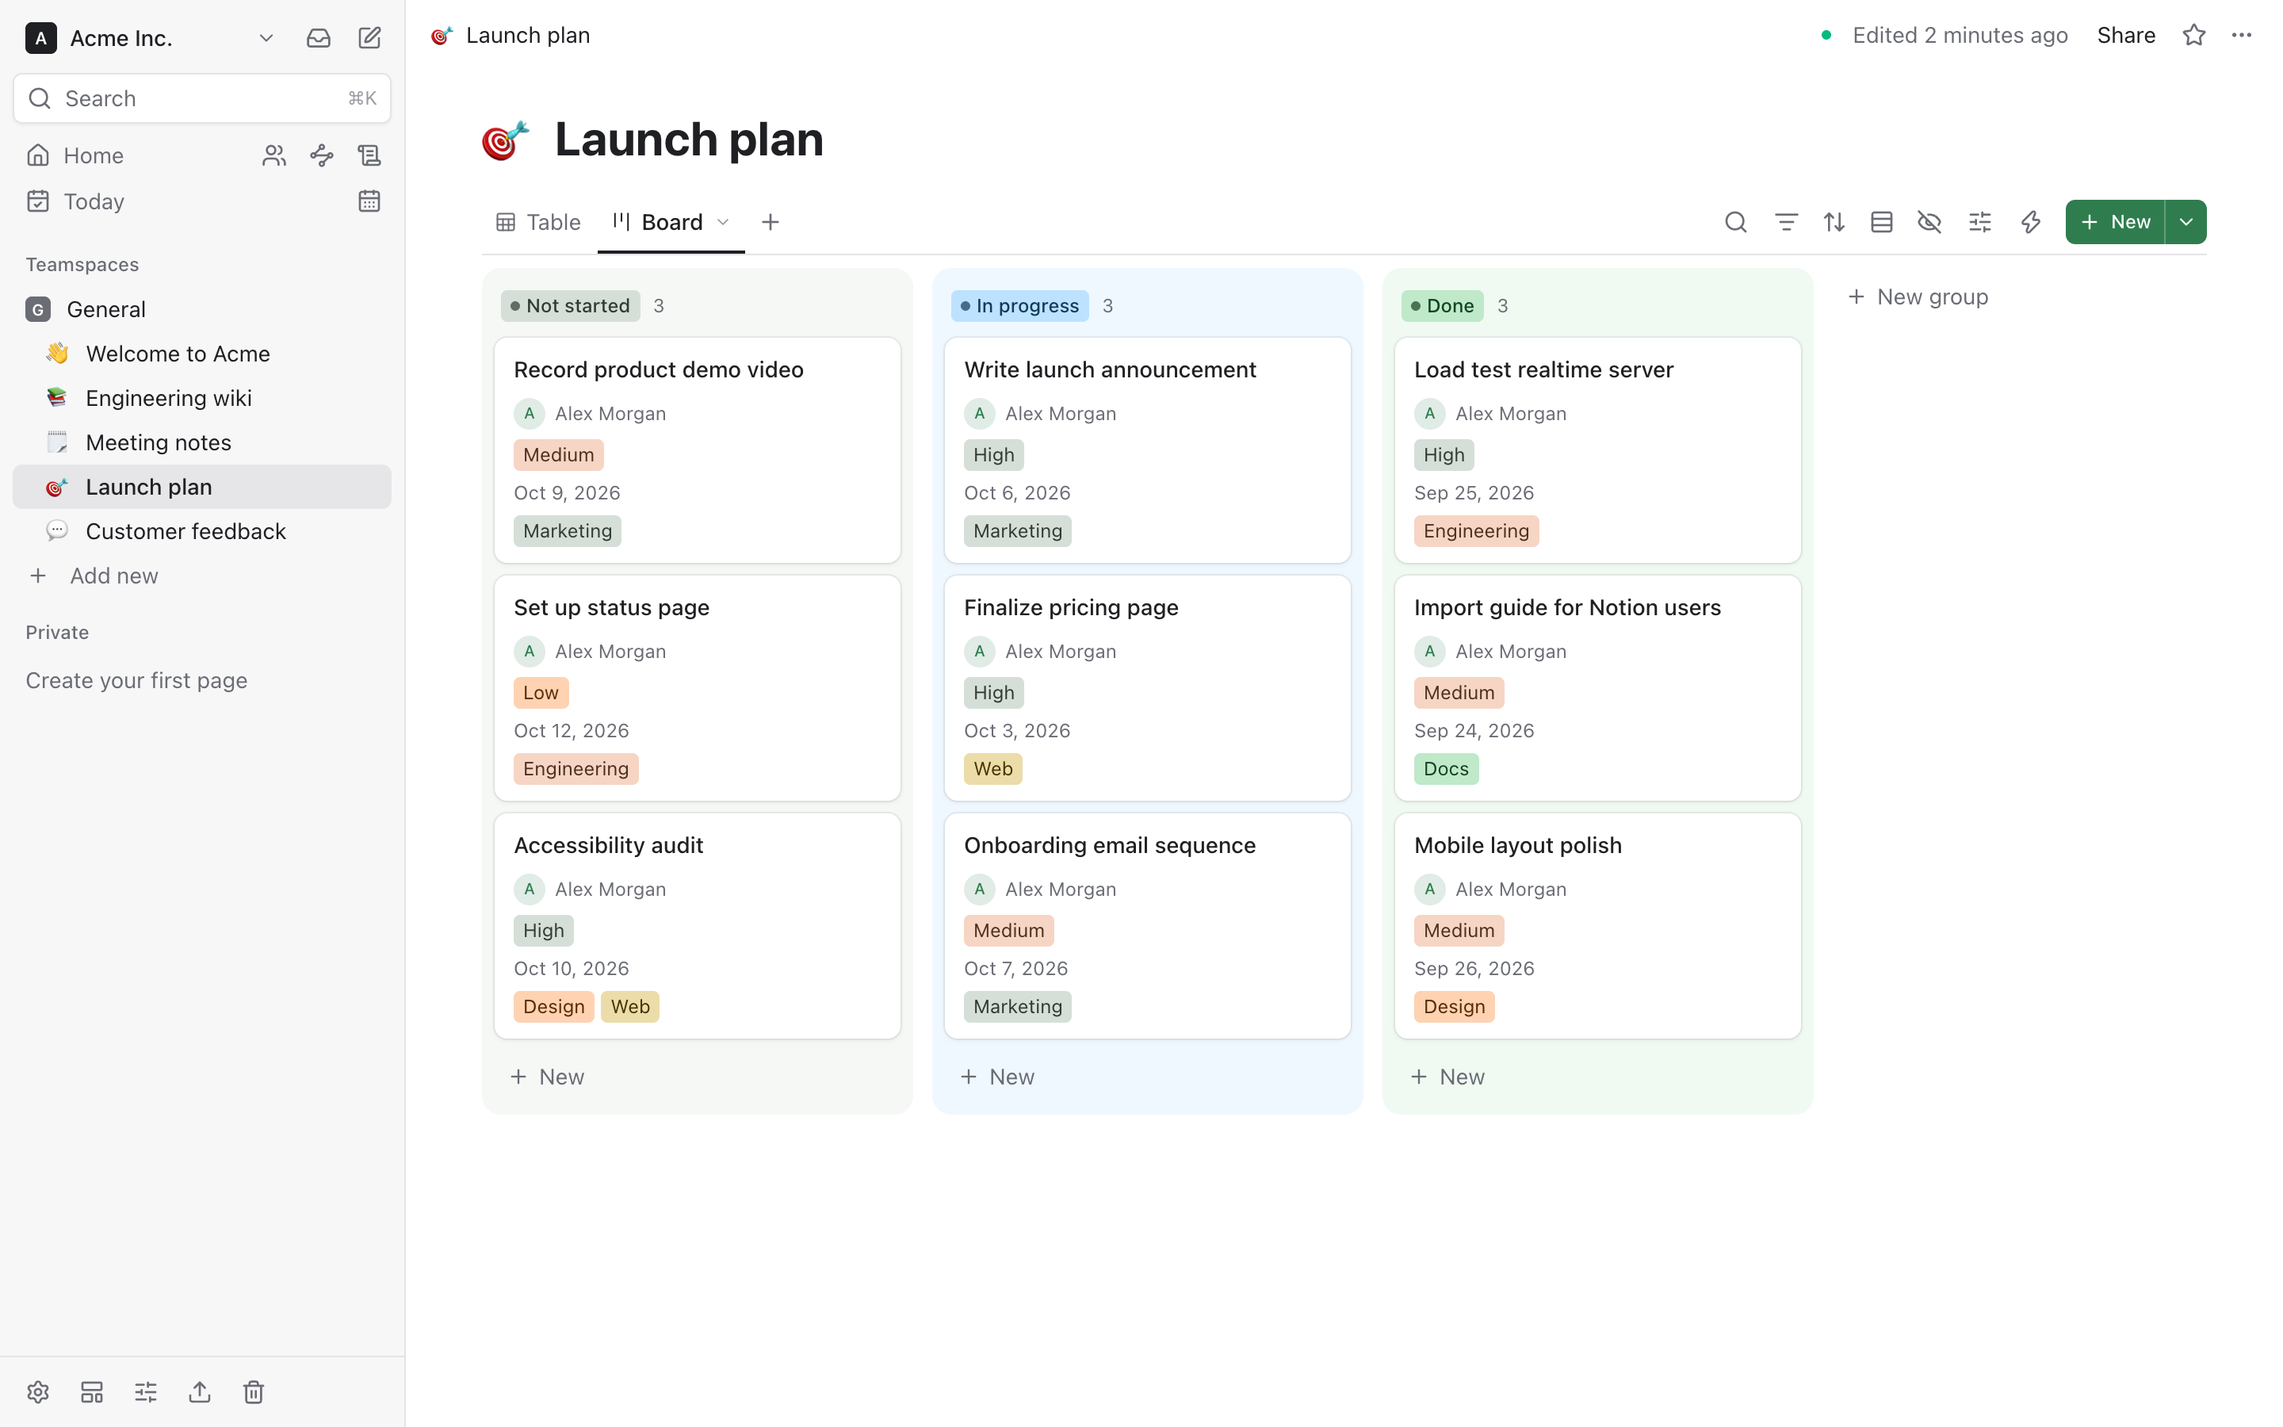
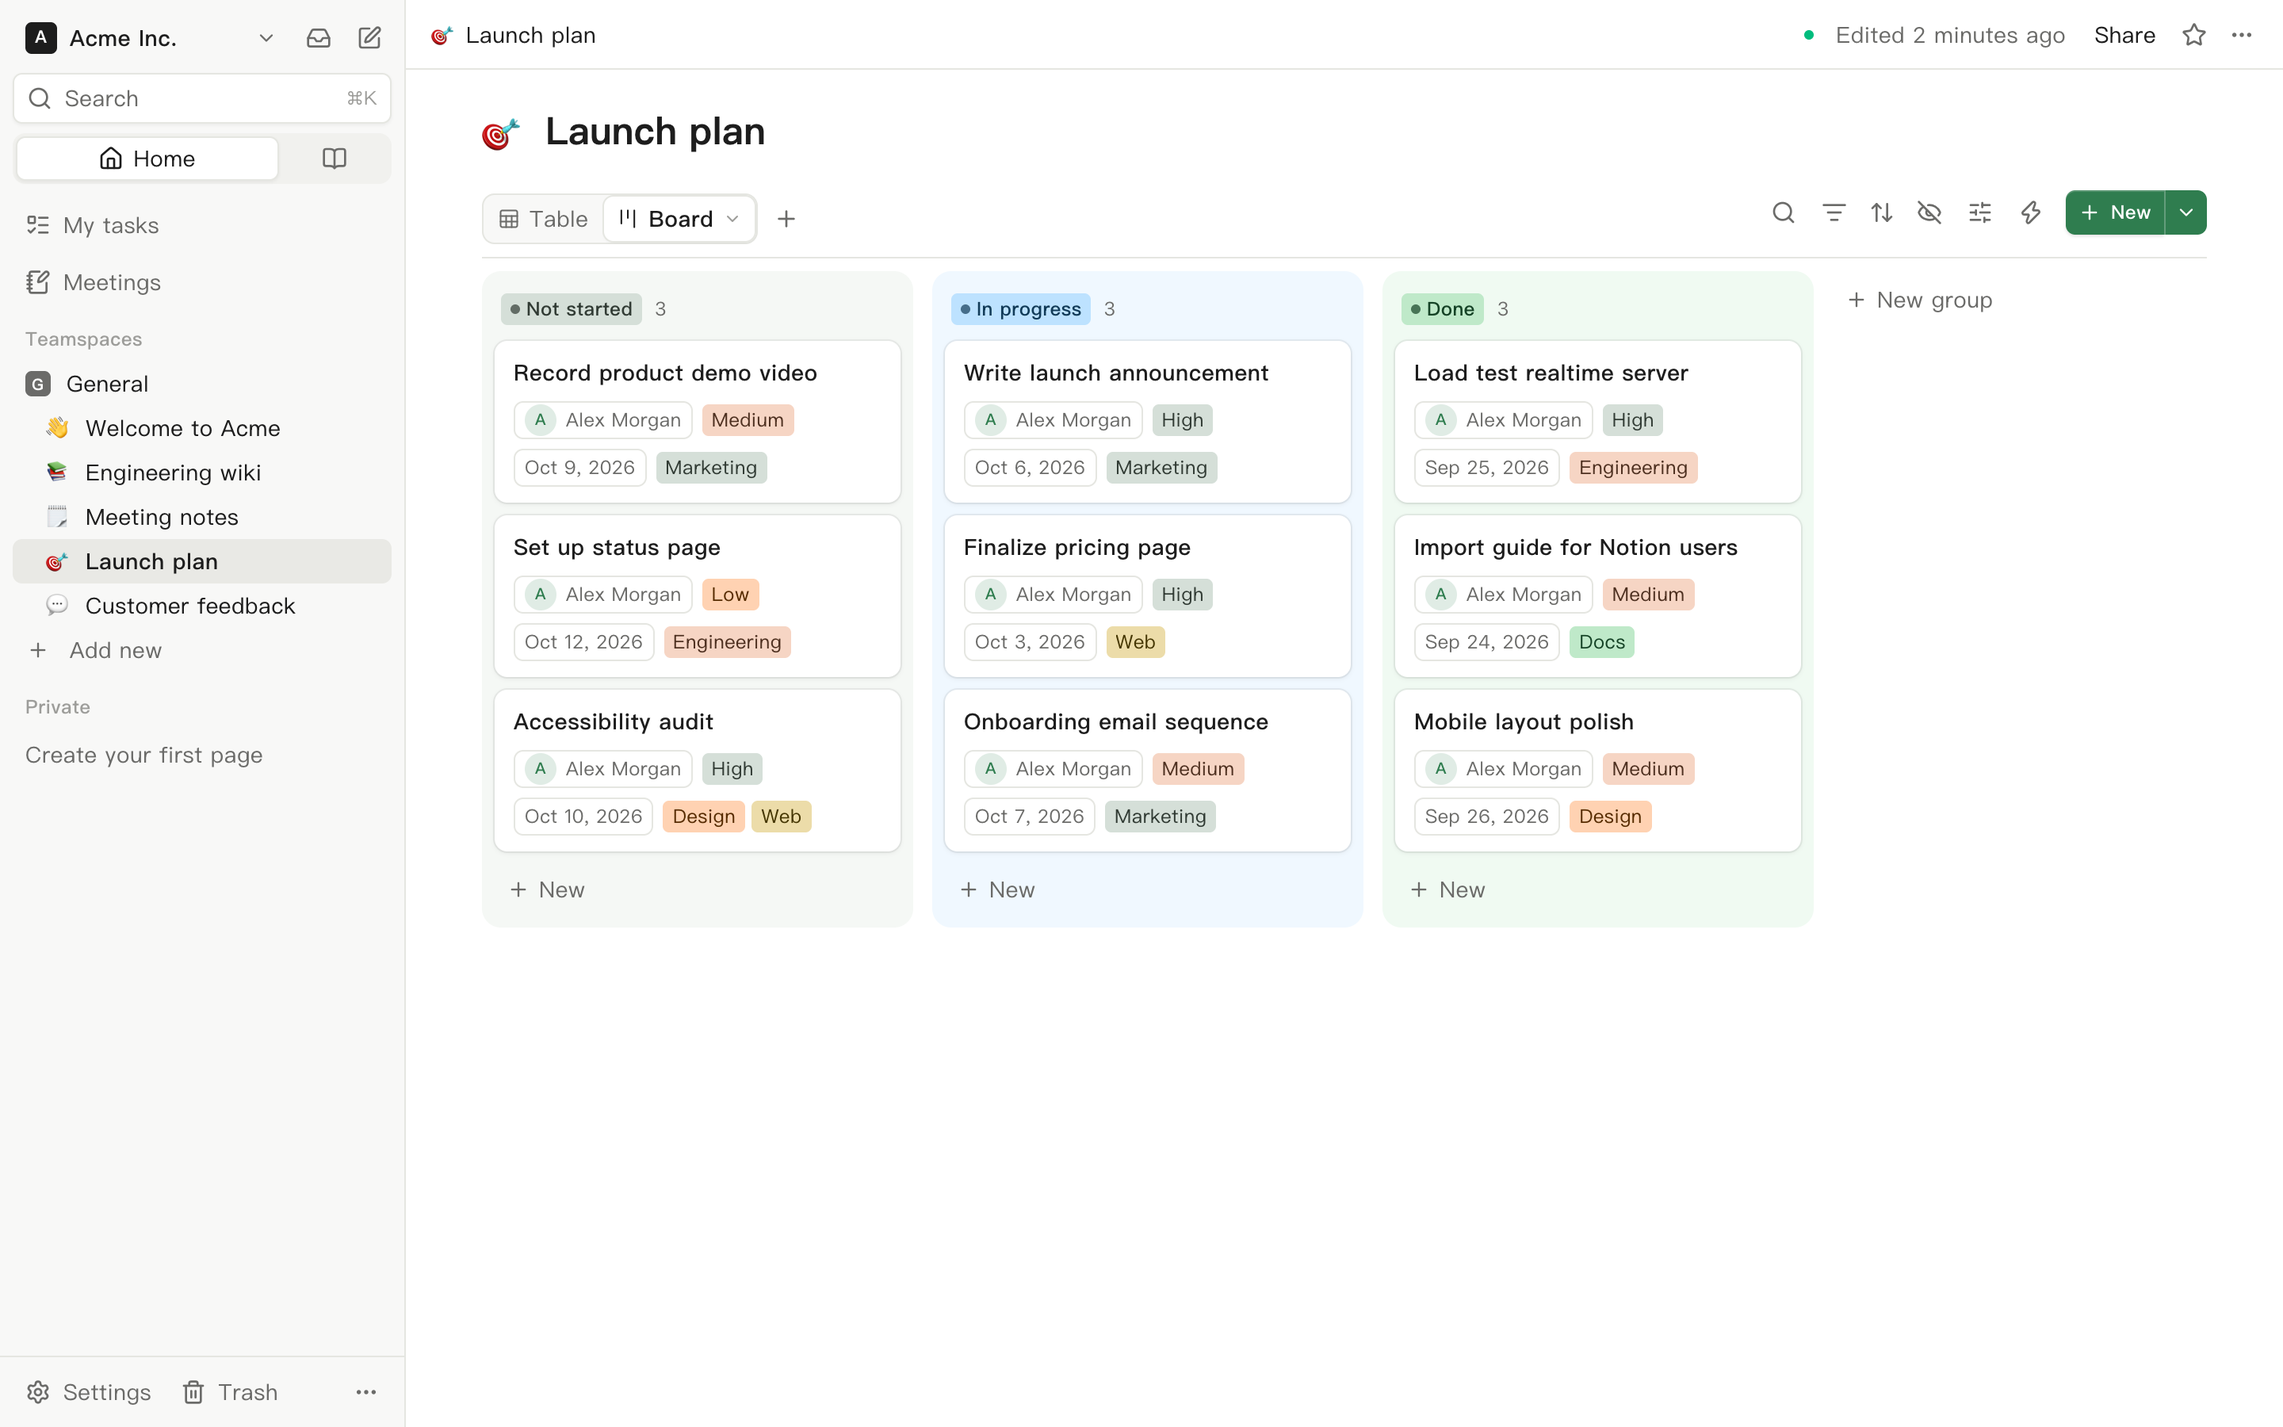
Give the app a crisper look: warmer grays, raised view tabs, chip values on cards
Light grays lean slightly warm with white surfaces edged by fine lines, and the dark scheme goes
deeper. Buttons get a soft shadow. A database's views sit on a track with the open one raised, a
line runs under its toolbar and the page's top bar, and database titles are smaller and semibold.
Board cards show their values side by side, each in a chip of its own (options and relations keep
their own). The table's header row is gray with 13px text, and the sidebar's section labels are
quieter. The README and website screenshots are taken again.

diff --git a/src/components/database/view-bar.tsx b/src/components/database/view-bar.tsx
@@ -140,29 +140,32 @@ export function ViewTabs({
   const drag = useReorderDrag("x", onMove);
   const movable = !readOnly && views.length > 1;
   return (
-    <div className="flex min-w-0 flex-1 items-center gap-0.5 overflow-x-auto [scrollbar-width:none]">
-      {views.map((view) => {
-        // A personal view is its person's to rename, copy and delete, whatever they may do to the others.
-        const own = mine(view) && canAddPersonal;
-        const tabReadOnly = readOnly && !own;
-        return (
-          <ViewTab
-            key={view.id}
-            view={view}
-            active={view.id === activeId}
-            canDelete={view.ownerId ? true : shared > 1}
-            readOnly={tabReadOnly}
-            drag={movable ? drag.handlers(view.id) : undefined}
-            onSelect={() => onSelect(view.id)}
-            onRename={(name) => onRename(view, name)}
-            onIcon={onIcon && ((icon) => onIcon(view, icon))}
-            onDelete={() => onDelete(view)}
-            onExport={view.id === activeId ? onExport : undefined}
-            onDuplicate={onDuplicate && !tabReadOnly ? () => onDuplicate(view) : undefined}
-            onShare={onShare && own ? () => onShare(view) : undefined}
-          />
-        );
-      })}
+    <div className="flex min-w-0 flex-1 items-center gap-1 overflow-x-auto [scrollbar-width:none]">
+      {/* The views sit on a track, the open one raised out of it. */}
+      <div className="flex shrink-0 items-center gap-0.5 rounded-lg bg-bg-subtle p-0.5 shadow-[inset_0_0_0_1px_var(--color-border)]">
+        {views.map((view) => {
+          // A personal view is its person's to rename, copy and delete, whatever they may do to the others.
+          const own = mine(view) && canAddPersonal;
+          const tabReadOnly = readOnly && !own;
+          return (
+            <ViewTab
+              key={view.id}
+              view={view}
+              active={view.id === activeId}
+              canDelete={view.ownerId ? true : shared > 1}
+              readOnly={tabReadOnly}
+              drag={movable ? drag.handlers(view.id) : undefined}
+              onSelect={() => onSelect(view.id)}
+              onRename={(name) => onRename(view, name)}
+              onIcon={onIcon && ((icon) => onIcon(view, icon))}
+              onDelete={() => onDelete(view)}
+              onExport={view.id === activeId ? onExport : undefined}
+              onDuplicate={onDuplicate && !tabReadOnly ? () => onDuplicate(view) : undefined}
+              onShare={onShare && own ? () => onShare(view) : undefined}
+            />
+          );
+        })}
+      </div>
       {(!readOnly || canAddPersonal) && (
         <>
           <button
@@ -171,7 +174,7 @@ export function ViewTabs({
             aria-label={t("viewTabs.addView")}
             title={t("viewTabs.addView")}
             onClick={add.toggle}
-            className="mb-1.5 inline-flex h-7 w-7 shrink-0 items-center justify-center rounded-md text-fg-muted hover:bg-bg-hover hover:text-fg"
+            className="inline-flex h-7 w-7 shrink-0 items-center justify-center rounded-md text-fg-muted hover:bg-bg-hover hover:text-fg"
           >
             <Plus className="h-4 w-4" />
           </button>
@@ -275,8 +278,7 @@ function ViewTab({
       onDrop={drag?.onDrop}
       onDragEnd={drag?.onDragEnd}
       className={cn(
-        "relative flex shrink-0 items-center border-b-2 pb-1",
-        active ? "border-fg" : "border-transparent",
+        "relative flex shrink-0 items-center",
         drag?.dragging && "opacity-50",
       )}
     >
@@ -284,7 +286,7 @@ function ViewTab({
         <span
           aria-hidden
           className={cn(
-            "pointer-events-none absolute top-0.5 bottom-1.5 w-0.5 bg-accent",
+            "pointer-events-none absolute inset-y-0.5 w-0.5 bg-accent",
             drag.dropSide === "before" ? "-inset-s-px" : "-inset-e-px",
           )}
         />
@@ -294,8 +296,8 @@ function ViewTab({
         type="button"
         onClick={() => (active && hasMenu ? menu.toggle() : onSelect())}
         className={cn(
-          "inline-flex h-7 items-center gap-1.5 rounded-md px-2 text-sm hover:bg-bg-hover",
-          active ? "font-medium text-fg" : "text-fg-muted",
+          "inline-flex h-7 items-center gap-1.5 rounded-md px-2 text-sm transition-colors",
+          active ? "bg-bg font-medium text-fg shadow-[0_0_0_1px_var(--color-border),0_1px_2px_rgb(0_0_0/0.05)]" : "text-fg-muted hover:text-fg",
         )}
       >
         <ViewIcon type={view.type} icon={view.config.icon} />

diff --git a/src/components/page/page-view.tsx b/src/components/page/page-view.tsx
@@ -492,7 +492,7 @@ export function PageView({
             className={cn(
               "-ms-1 shrink-0 rounded-md p-1 leading-none",
               // The title's size, so the icon reads as part of its first line.
-              wide ? "text-2xl md:text-3xl" : "text-[1.75rem] md:text-4xl",
+              wide ? "text-xl md:text-2xl" : "text-[1.75rem] md:text-4xl",
               canChangeHeader ? "hover:bg-bg-hover" : "cursor-default",
             )}
           >
@@ -524,7 +524,7 @@ export function PageView({
       <div ref={rootRef} data-find-scope data-page-area className={cn("flex min-h-full flex-col", backdropClass(background))}>
         {/* Above the content's own layers (frozen table columns, the title's buttons, z-30) as it scrolls under.
             The blur sits on a layer behind it: on the header itself it would hold fixed menus and dialogs inside it. */}
-        <header data-window-controls-clear className="sticky top-0 z-[35] flex h-11 items-center justify-between gap-2 border-b border-transparent px-3 before:absolute before:inset-0 before:-z-10 before:bg-bg/90 before:backdrop-blur max-md:ps-1.5">
+        <header data-window-controls-clear className="sticky top-0 z-[35] flex h-11 items-center justify-between gap-2 border-b border-border px-3 before:absolute before:inset-0 before:-z-10 before:bg-bg/90 before:backdrop-blur max-md:ps-1.5">
           {panel ? (
             <div className="flex min-w-0 items-center gap-0.5">{panel.controls}</div>
           ) : (
@@ -907,7 +907,7 @@ function TitleField({
   // eslint-disable-next-line react-hooks/exhaustive-deps -- inputRef is a ref object; only a new value matters
   }, [value]);
   // Phones get a step smaller, so a typical title fits on one or two lines.
-  const font = cn("font-bold leading-tight", compact ? "text-2xl md:text-3xl" : "text-[1.75rem] md:text-4xl");
+  const font = cn("font-semibold leading-tight tracking-tight", compact ? "text-xl md:text-2xl" : "text-[1.75rem] md:text-4xl");
   // An invisible copy of the text sizes the box, so the field is only as wide and tall as its text
   // and a click beside the title doesn't start editing it.
   return (

diff --git a/src/components/database/board-view.tsx b/src/components/database/board-view.tsx
@@ -925,6 +925,9 @@ function DropLine() {
   return <div className="mb-2 h-0.5 rounded bg-accent" />;
 }
 
+/** Values that show as chips of their own (an option's color, a linked row), so a card doesn't box them again. */
+const CHIPPED = new Set<Property["type"]>(["select", "multi_select", "status", "relation"]);
+
 const Card = memo(function Card({
   workspaceId,
   row,
@@ -1001,11 +1004,18 @@ const Card = memo(function Card({
         </div>
       )}
       {shown.length > 0 && (
-        <div className="mt-2 flex flex-col items-start gap-1.5 text-xs">
+        // Side by side, each value in a chip of its own (options bring their own colored chip);
+        // wrapped values keep a line each.
+        <div className={cn("mt-2 flex gap-1.5 text-xs", wrap ? "flex-col items-start" : "flex-wrap items-center")}>
           {shown.map((p) => (
             <div
               key={p.id}
-              className={cn("flex max-w-full min-w-0 text-fg-muted", wrap ? "items-start" : "items-center", cellMarkClass(color, p.id))}
+              className={cn(
+                "flex max-w-full min-w-0 text-fg-muted",
+                wrap ? "items-start" : "items-center",
+                !wrap && !CHIPPED.has(p.type) && "h-6 rounded-md border border-border bg-bg px-1.5",
+                cellMarkClass(color, p.id),
+              )}
               title={p.name}
             >
               <CardValue prop={p} row={row} wrap={wrap} readOnly={readOnly} onChange={onValue} onCreateOption={onCreateOption} />

diff --git a/src/app/globals.css b/src/app/globals.css
@@ -42,14 +42,15 @@
   @variant dark {
     color-scheme: dark;
   }
+  /* Warm neutrals: white surfaces on a faintly warm gray, edged by hairlines. */
   --bg: #ffffff;
-  --bg-subtle: #f7f7f8;
-  --bg-hover: #efeff1;
-  --bg-active: #e6e6e9;
-  --fg: #1f2023;
-  --fg-muted: #6b6d75;
-  --fg-faint: #9a9ca3;
-  --border: #e4e4e7;
+  --bg-subtle: #f8f8f7;
+  --bg-hover: #f1f1ee;
+  --bg-active: #e9e9e5;
+  --fg: #1d1d1d;
+  --fg-muted: #6b6b69;
+  --fg-faint: #9d9d9a;
+  --border: #e5e6e1;
   /* Brand green (brand/): links, primary buttons and focus rings. */
   --accent: #2f7d4f;
   --accent-fg: #ffffff;
@@ -93,14 +94,14 @@
 /* The print view (app/print) stays light in dark mode: see the end of this file. */
 :root:not(:has([data-print-view])) {
   @variant dark {
-    --bg: #18191b;
-    --bg-subtle: #202124;
-    --bg-hover: #2a2b2f;
-    --bg-active: #33353a;
-    --fg: #e8e8ea;
-    --fg-muted: #a1a3aa;
-    --fg-faint: #6f727a;
-    --border: #2f3034;
+    --bg: #161616;
+    --bg-subtle: #1c1c1c;
+    --bg-hover: #252524;
+    --bg-active: #2e2e2c;
+    --fg: #ededed;
+    --fg-muted: #a0a09e;
+    --fg-faint: #6e6e6c;
+    --border: #2a2a28;
     --accent: #6cc38a;
     --accent-fg: #0d1117;
     --danger: #ef6b6b;

diff --git a/src/components/database/table-view.tsx b/src/components/database/table-view.tsx
@@ -768,7 +768,8 @@ export function TableView({
             ))}
             {!readOnly && <col style={{ width: 36 }} />}
           </colgroup>
-          <thead ref={setThead}>
+          {/* The header row on gray, frozen columns included (not the row handles beside it). */}
+          <thead ref={setThead} className="[&_th:not(:first-child)]:bg-bg-subtle">
             <tr className="group">
               <th className={cn("p-0 font-normal", frozen(-1).className)} style={frozen(-1).style}>
                 <div className="flex justify-end">
@@ -1002,7 +1003,7 @@ function HeaderCell({
         disabled={readOnly}
         onClick={menu.toggle}
         aria-describedby={description ? descriptionId : undefined}
-        className="flex h-[33px] w-full items-center gap-1.5 px-2 text-sm text-fg-muted hover:bg-bg-hover disabled:hover:bg-transparent"
+        className="flex h-[33px] w-full items-center gap-1.5 px-2 text-[13px] text-fg-muted hover:bg-bg-hover disabled:hover:bg-transparent"
       >
         <PropertyTypeIcon type={icon} icon={prop?.options.icon} number={prop?.options.number} className="h-3.5 w-3.5 shrink-0" />
         <span className="truncate">{label}</span>

diff --git a/src/components/ui.tsx b/src/components/ui.tsx
@@ -10,8 +10,9 @@ export function cn(...classes: (string | false | null | undefined)[]) {
 type ButtonVariant = "primary" | "secondary" | "ghost" | "danger";
 
 const buttonStyles: Record<ButtonVariant, string> = {
-  primary: "bg-accent text-accent-fg hover:opacity-90",
-  secondary: "border border-border bg-bg hover:bg-bg-hover",
+  // A faint light along the top edge and a soft drop shadow lift both off the page.
+  primary: "bg-accent text-accent-fg shadow-[inset_0_1px_0_rgb(255_255_255/0.18),0_1px_2px_rgb(0_0_0/0.12)] hover:opacity-90",
+  secondary: "border border-border bg-bg shadow-[0_1px_2px_rgb(0_0_0/0.05)] hover:bg-bg-hover",
   ghost: "hover:bg-bg-hover text-fg-muted hover:text-fg",
   danger: "bg-danger text-white hover:opacity-90",
 };

diff --git a/src/components/database/database-page.tsx b/src/components/database/database-page.tsx
@@ -568,7 +568,7 @@ export function DatabasePage({
                     {embed?.header?.(snapshot)}
                     {offline && <OfflineNotice savedAt={offlineCopyFrom} />}
                     {/* Phones stack the toolbar above the tabs so the tabs get the whole row. */}
-                    <div className="flex flex-col-reverse gap-1 border-b border-border md:flex-row md:items-end md:justify-between md:gap-2">
+                    <div className="flex flex-col-reverse gap-1 border-b border-border pb-2 md:flex-row md:items-end md:justify-between md:gap-2">
                       <ViewTabs
                         views={views}
                         activeId={view?.id ?? ""}

diff --git a/src/components/sidebar/sidebar.tsx b/src/components/sidebar/sidebar.tsx
@@ -1803,7 +1803,7 @@ function SectionGroup({
           type="button"
           aria-expanded={open}
           onClick={onToggle}
-          className="flex h-full min-w-0 flex-1 items-center gap-1 px-2 text-start text-xs font-medium text-fg-muted"
+          className="flex h-full min-w-0 flex-1 items-center gap-1 px-2 text-start text-xs font-medium text-fg-faint hover:text-fg-muted"
         >
           <span className="truncate">{label}</span>
           {open ? (

diff --git a/CHANGELOG.md b/CHANGELOG.md
@@ -68,6 +68,12 @@
   beside it as chips, the model shown by name ("Claude Opus 5.5") rather than id; dictation is next
   to *Send*, which fills in once there is something to send. The conversations in the sidebar are
   grouped by today, yesterday, the previous 7 and 30 days and older.
+- **A crisper look across the app.** Grays lean slightly warm, with white surfaces edged by fine
+  lines in the light scheme and a deeper black in the dark one; buttons are lifted by a soft shadow.
+  A database's views sit on a track with the open one raised, and a line runs under its toolbar and
+  under the page's top bar. Board cards show their values side by side, each in a small chip of its
+  own; a table's header row is gray with smaller text. Database titles are smaller and semibold,
+  pages keep their large titles, and the sidebar's section labels are quieter.
 
 - **Scheduled agents read only the web pages of their task and their searches.** A schedule's
   run used to read any address without asking, so text planted in a page or a row it read could
